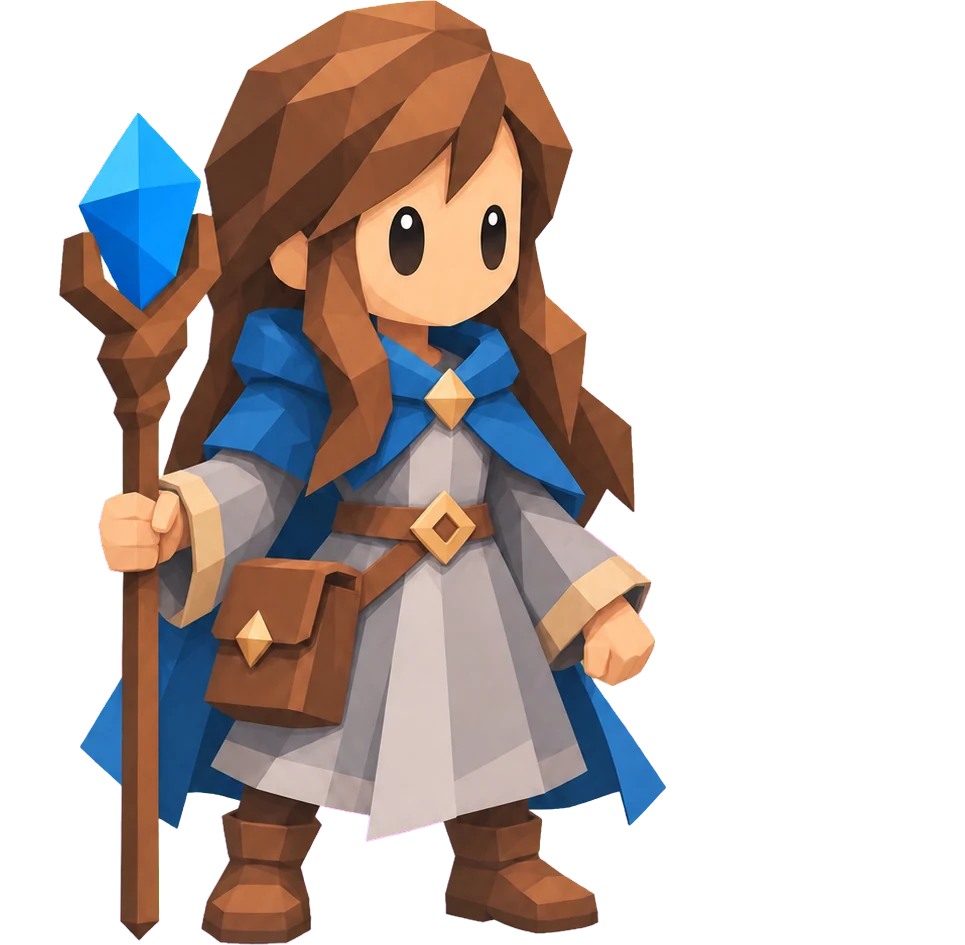
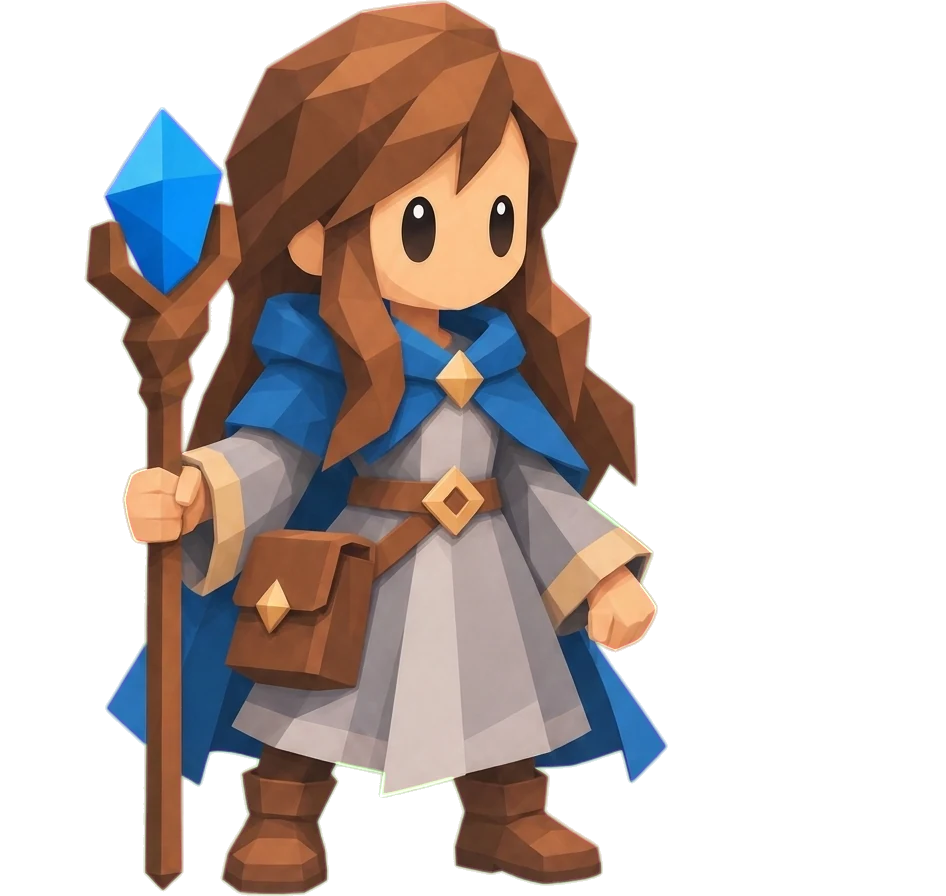
feat(site): 수습 마법생을 고해상도 그림으로 바꾼다
Refs #72

diff --git a/src/components/StoryBand.tsx b/src/components/StoryBand.tsx
@@ -58,8 +58,8 @@ const tiles: StoryTile[] = [
     key: 'player',
     src: '/hires/Player.webp',
     swap: '/hires/PlayerAttack.webp',
-    width: 965,
-    height: 945,
+    width: 946,
+    height: 896,
     title: { ko: '수습 마법생', en: 'The Apprentice' },
     body: {
       ko: '마법사의 탑에서 내려와 워드의 카드를 따라가요.',
